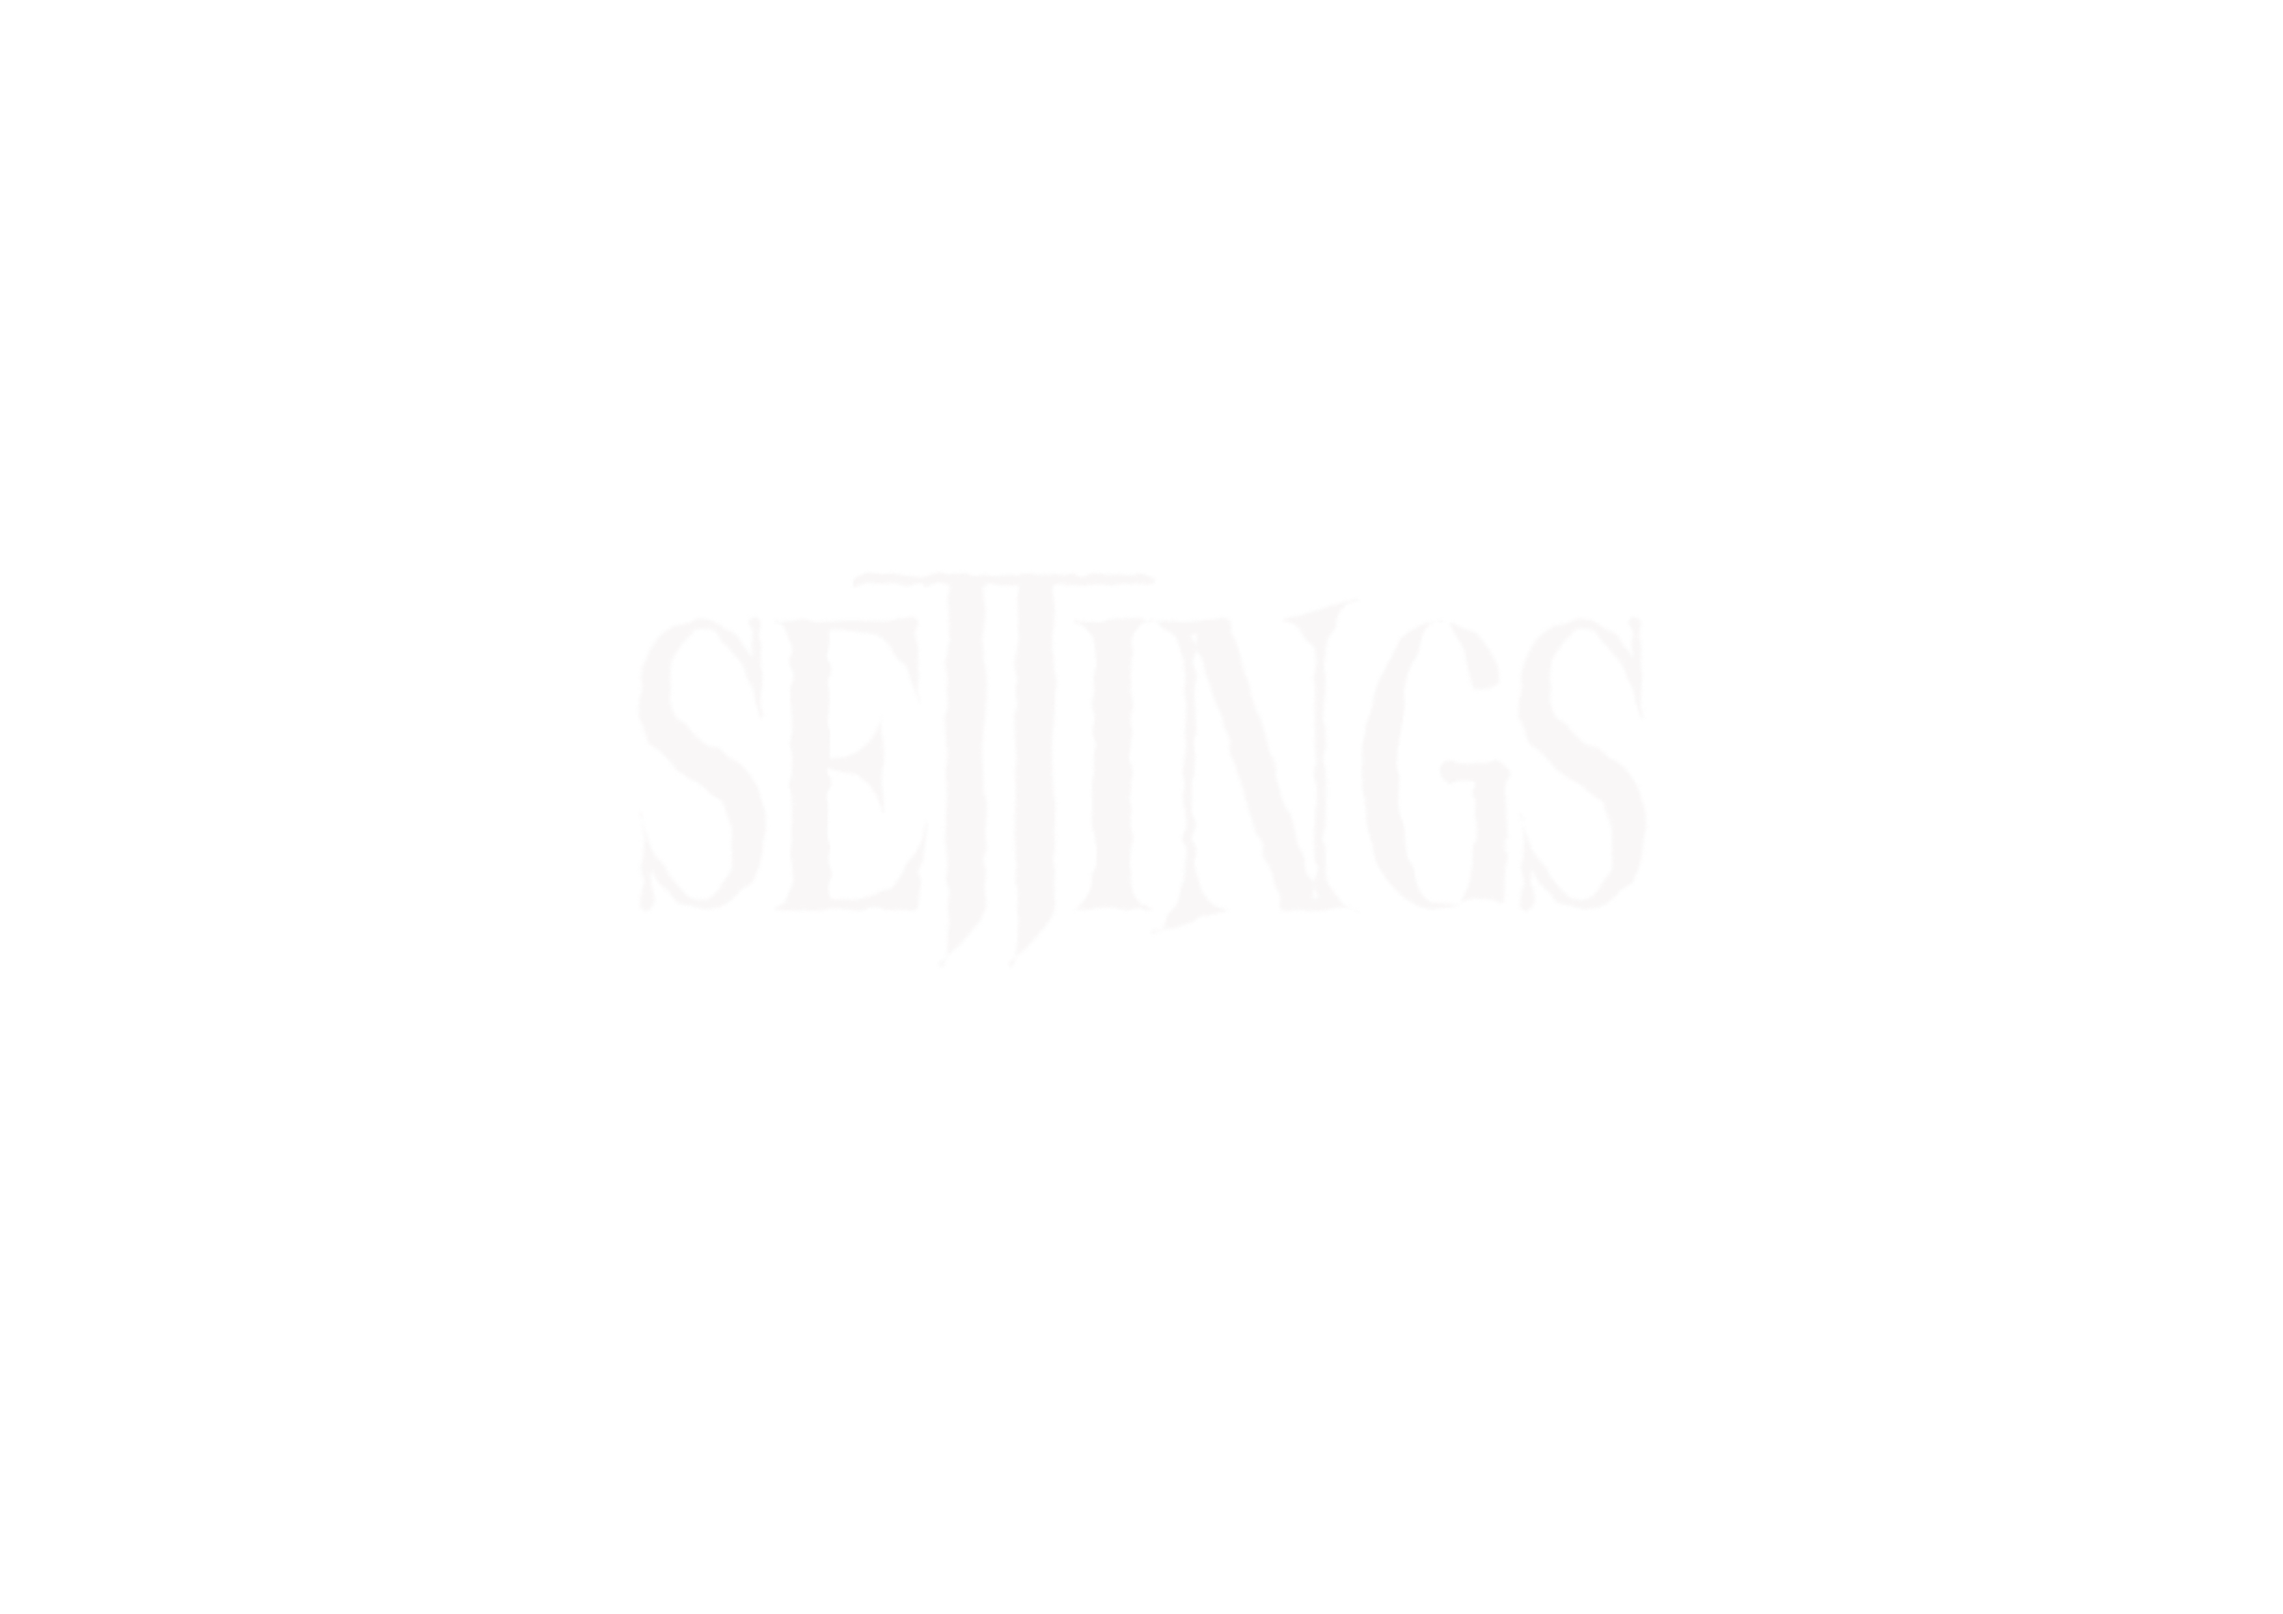
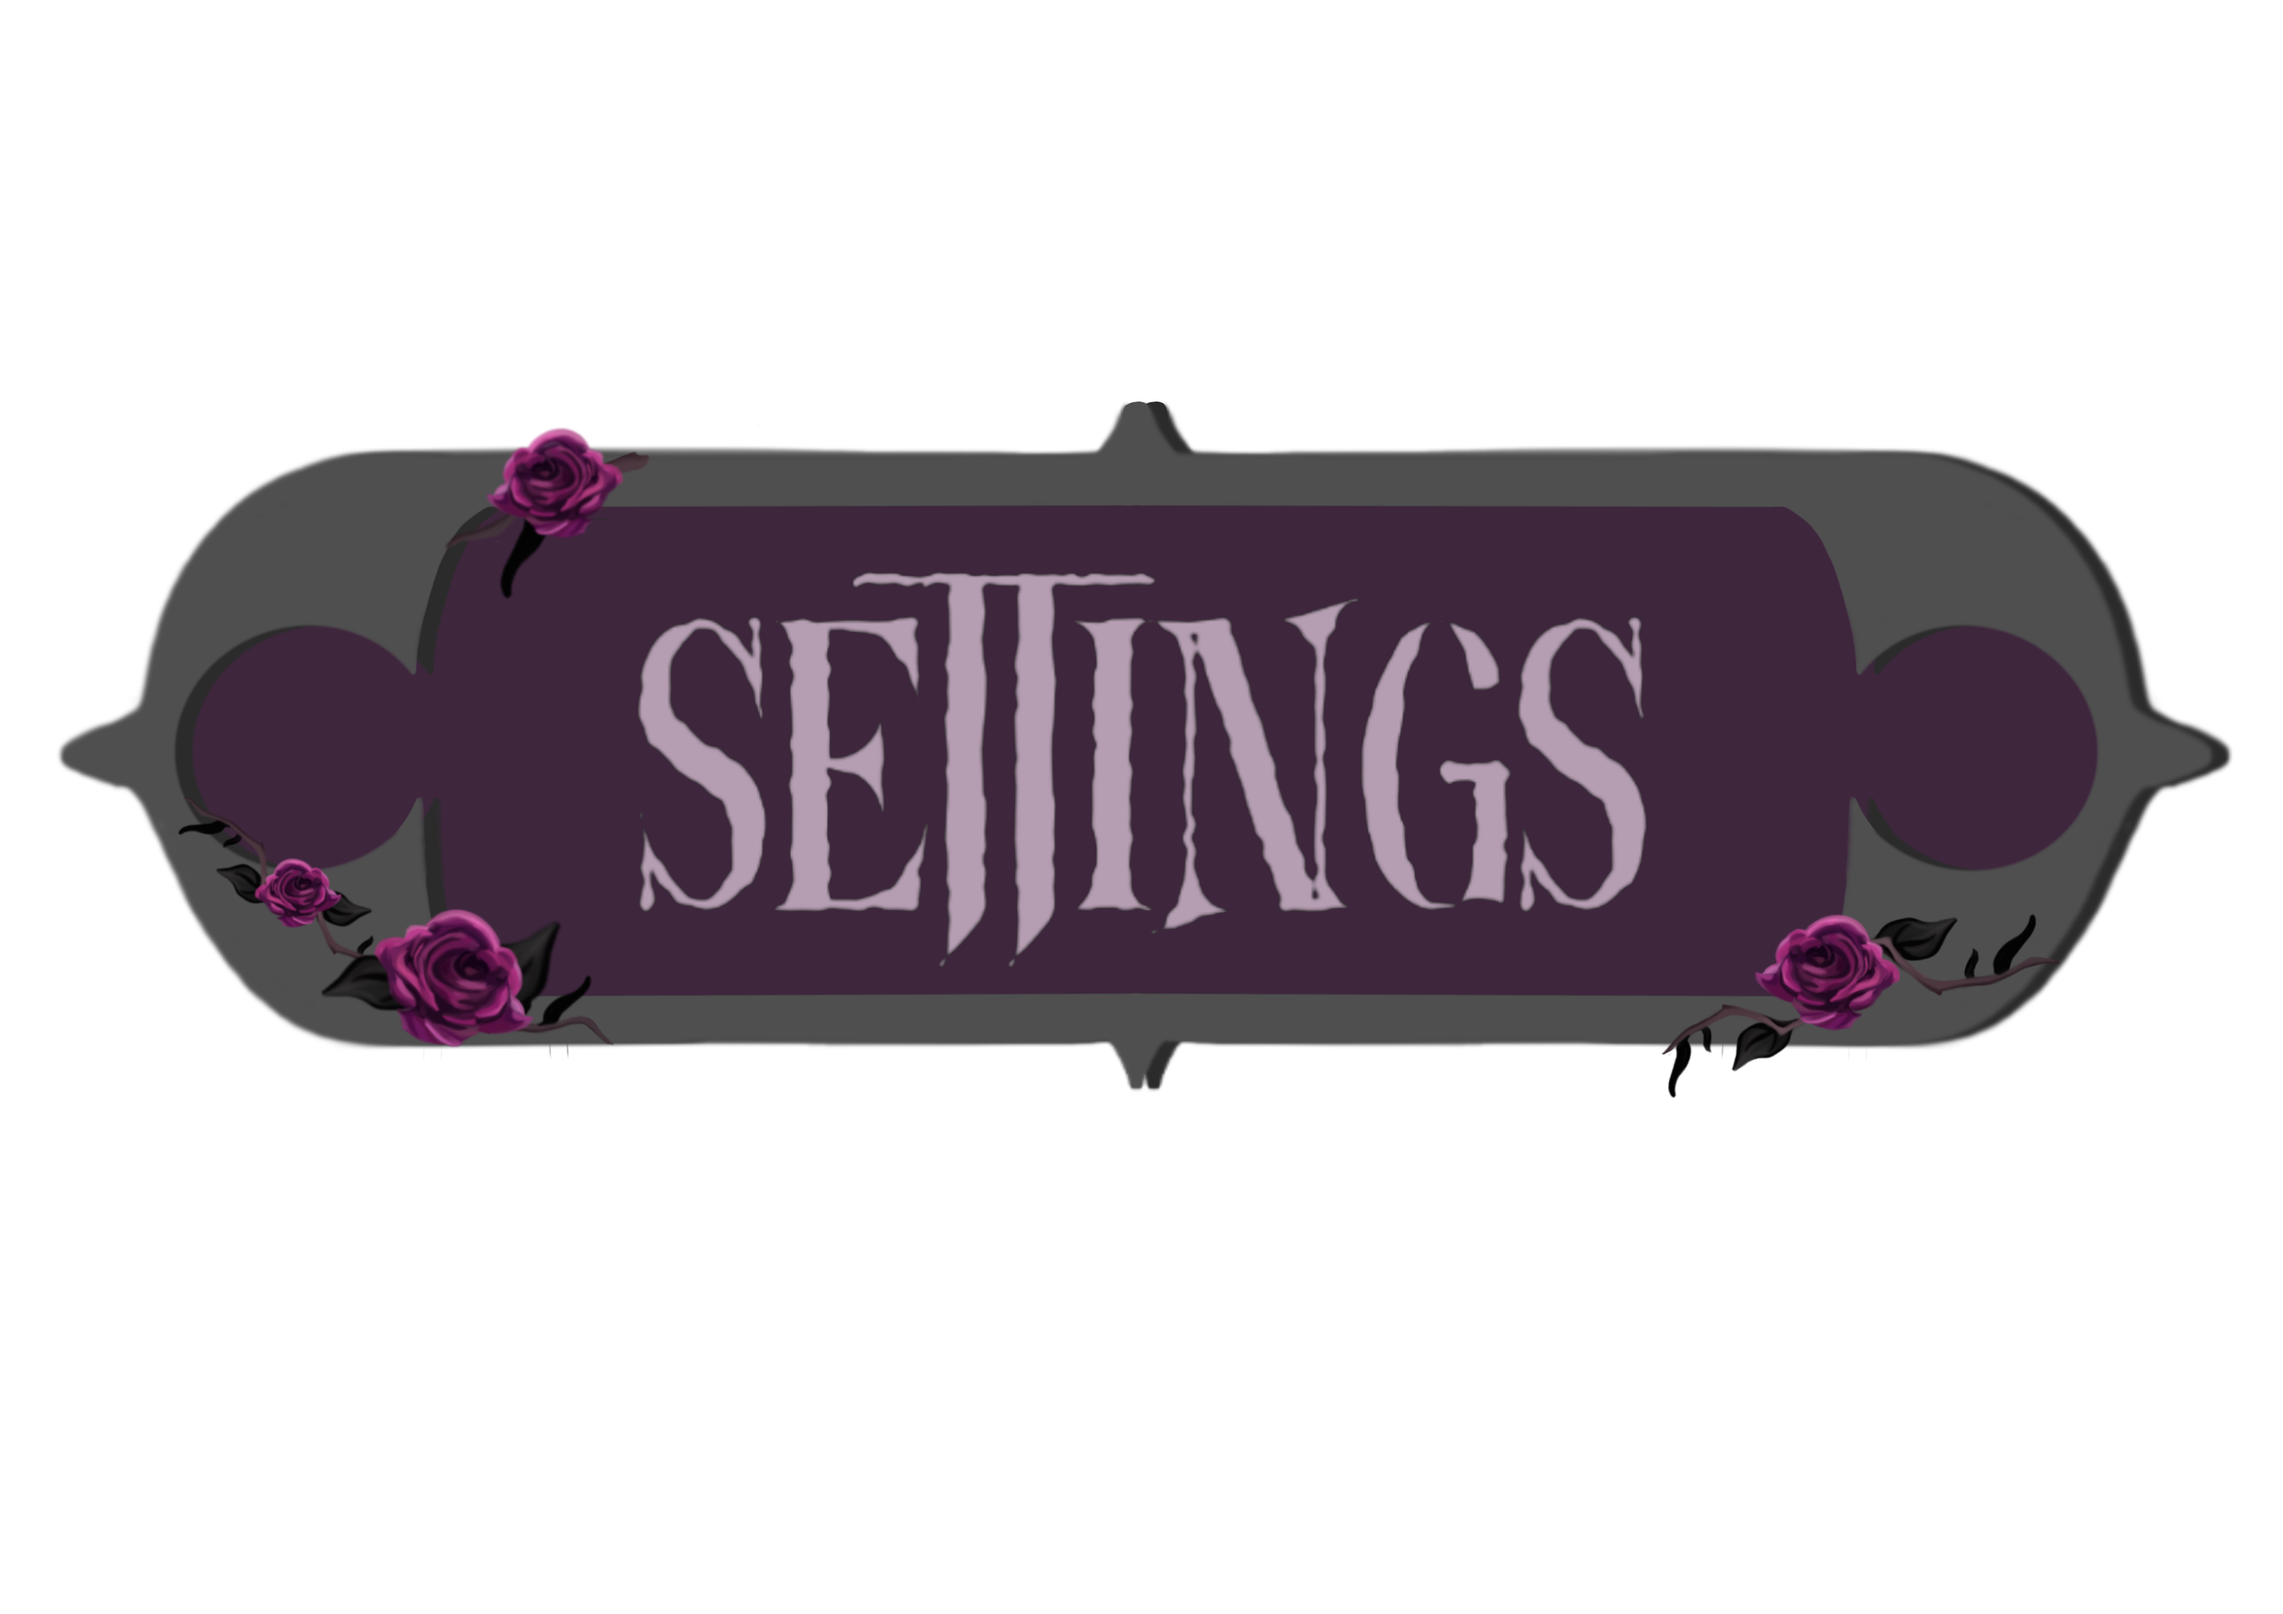
Changement d'ordi

diff --git a/FiniteStateMachine/MainMenu.cpp b/FiniteStateMachine/MainMenu.cpp
@@ -8,7 +8,8 @@ MainMenu::MainMenu(const RessourcesManager& rm)
     shopButton(rm.getShopTexture()),
     title(rm.getTitleTexture()),
     bestScoreText(rm.getFont(), "", 40),
-    totalScoreText(rm.getFont(), "", 40)
+    totalScoreText(rm.getFont(), "", 40),
+    shopButtonBg(rm.getShopBgTexture())
 {
     // Etirement du background
     float scaleX = 1920.f / rm.getMenuBgTexture().getSize().x;
@@ -23,6 +24,8 @@ MainMenu::MainMenu(const RessourcesManager& rm)
     settingsBtn.setPosition({ 795.f, 580.f });
     settingsBtn.setScale({ 0.09f, 0.09f });
     shopButton.setPosition({ 800.f, 700.f });
+    shopButtonBg.setPosition({ 790.f,690.f });
+    shopButtonBg.setScale({ 0.10f,0.10f });
     shopButton.setScale({ 0.09f, 0.09f });
     exitBtn.setPosition({ 790.f, 800.f });
     exitBtn.setScale({ 0.09f, 0.09f });
@@ -31,7 +34,6 @@ MainMenu::MainMenu(const RessourcesManager& rm)
     settingsHitbox = sf::FloatRect({ 820.f, 645.f }, { 265.f, 80.f });
     shopHitbox = sf::FloatRect({ 885.f, 750.f }, { 158.f, 88.f });
     exitHitbox = sf::FloatRect({ 880.f, 850.f }, { 150.f, 90.f });
-
 
     bestScoreText.setFillColor(sf::Color::Red);
     bestScoreText.setPosition({ 1500.f, 30.f });
@@ -65,6 +67,7 @@ void MainMenu::draw(sf::RenderWindow& window) const {
     window.draw(startBtn);
     window.draw(settingsBtn);
     window.draw(exitBtn);
+    window.draw(shopButtonBg);
     window.draw(shopButton);
 
     window.draw(bestScoreText);

diff --git a/FiniteStateMachine/RessourcesManager.h b/FiniteStateMachine/RessourcesManager.h
@@ -24,6 +24,7 @@ public:
     const sf::Texture& getSettingsBgTexture() const;
     const sf::Texture& getBgGameOverTexture() const;
     const sf::Texture& getShopTexture() const;
+    const sf::Texture& getShopBgTexture() const;
     //Button Texture 
     const sf::Texture& getStartBtnTexture() const;
     const sf::Texture& getSettingsBtnTexture() const;
@@ -47,6 +48,8 @@ public:
 
     const sf::Texture& getLaserTexture() const;
     const sf::Texture& getTitleTexture() const;
+
+
 
 private:
     sf::Texture playerTex;
@@ -79,13 +82,13 @@ private:
     sf::Texture shopTex;
     sf::Texture menuBgTex;
     sf::Texture bgGameOverTex;
+    sf::Texture shopBgTex;
     //Obstacles Texture 
     sf::Image topPipeImg[3];
     sf::Image bottomPipeImg[3];
 	
     sf::Texture laserTex;
     sf::Texture titleTex;
-
 
     bool loadTexture(sf::Texture& tex, const std::string& path);
 

diff --git a/FiniteStateMachine/RessourcesManager.cpp b/FiniteStateMachine/RessourcesManager.cpp
@@ -48,6 +48,7 @@ bool RessourcesManager::loadAll() {
     if (!loadTexture(laserTex, basePath + "Laser.png")) return false;
     if (!loadTexture(birdShadowTex, basePath + "BirdShadow.png")) return false;
     if (!loadTexture(titleTex, basePath + "Title.png")) return false;
+    if (!loadTexture(shopBgTex, basePath + "ShopButtonBG.png")) return false;
 
     return true;
 }
@@ -101,4 +102,5 @@ const sf::Texture& RessourcesManager::getBgGameOverTexture() const{ return bgGam
 
 const sf::Texture& RessourcesManager::getLaserTexture() const{ return laserTex; }
 const sf::Texture& RessourcesManager::getTitleTexture() const{ return titleTex; }
+const sf::Texture& RessourcesManager::getShopBgTexture() const{ return shopBgTex; }
 

diff --git a/FiniteStateMachine/MainMenu.h b/FiniteStateMachine/MainMenu.h
@@ -25,4 +25,5 @@ private:
     sf::FloatRect settingsHitbox;
     sf::FloatRect shopHitbox;
     sf::FloatRect exitHitbox;
+    sf::Sprite shopButtonBg;
 };
